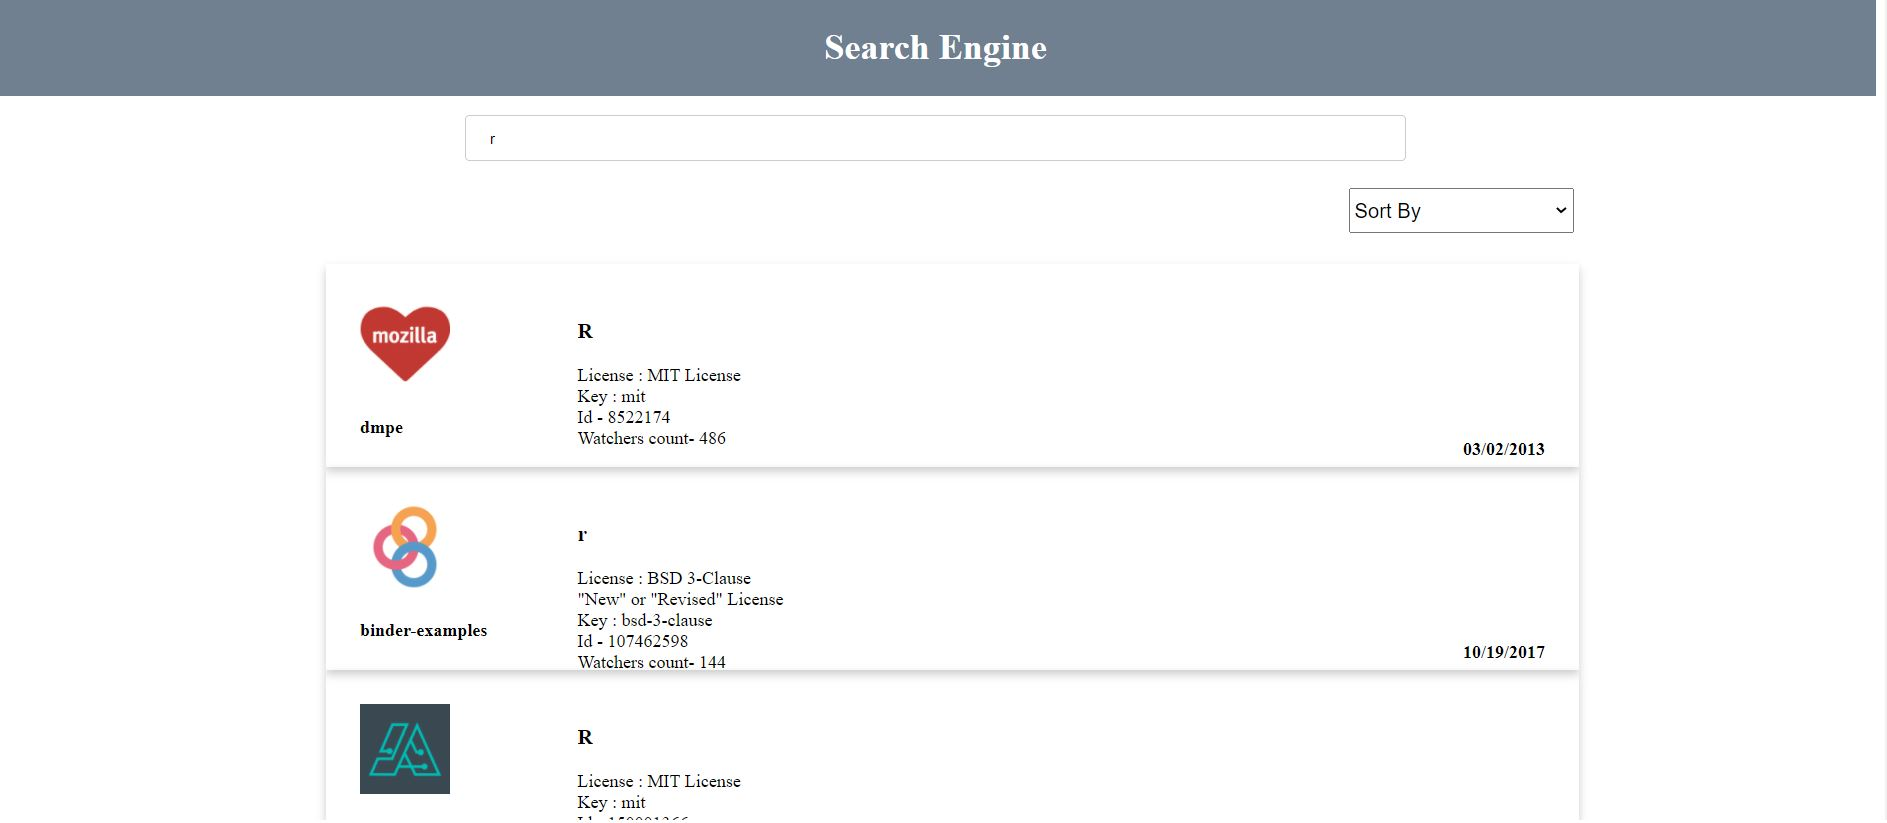
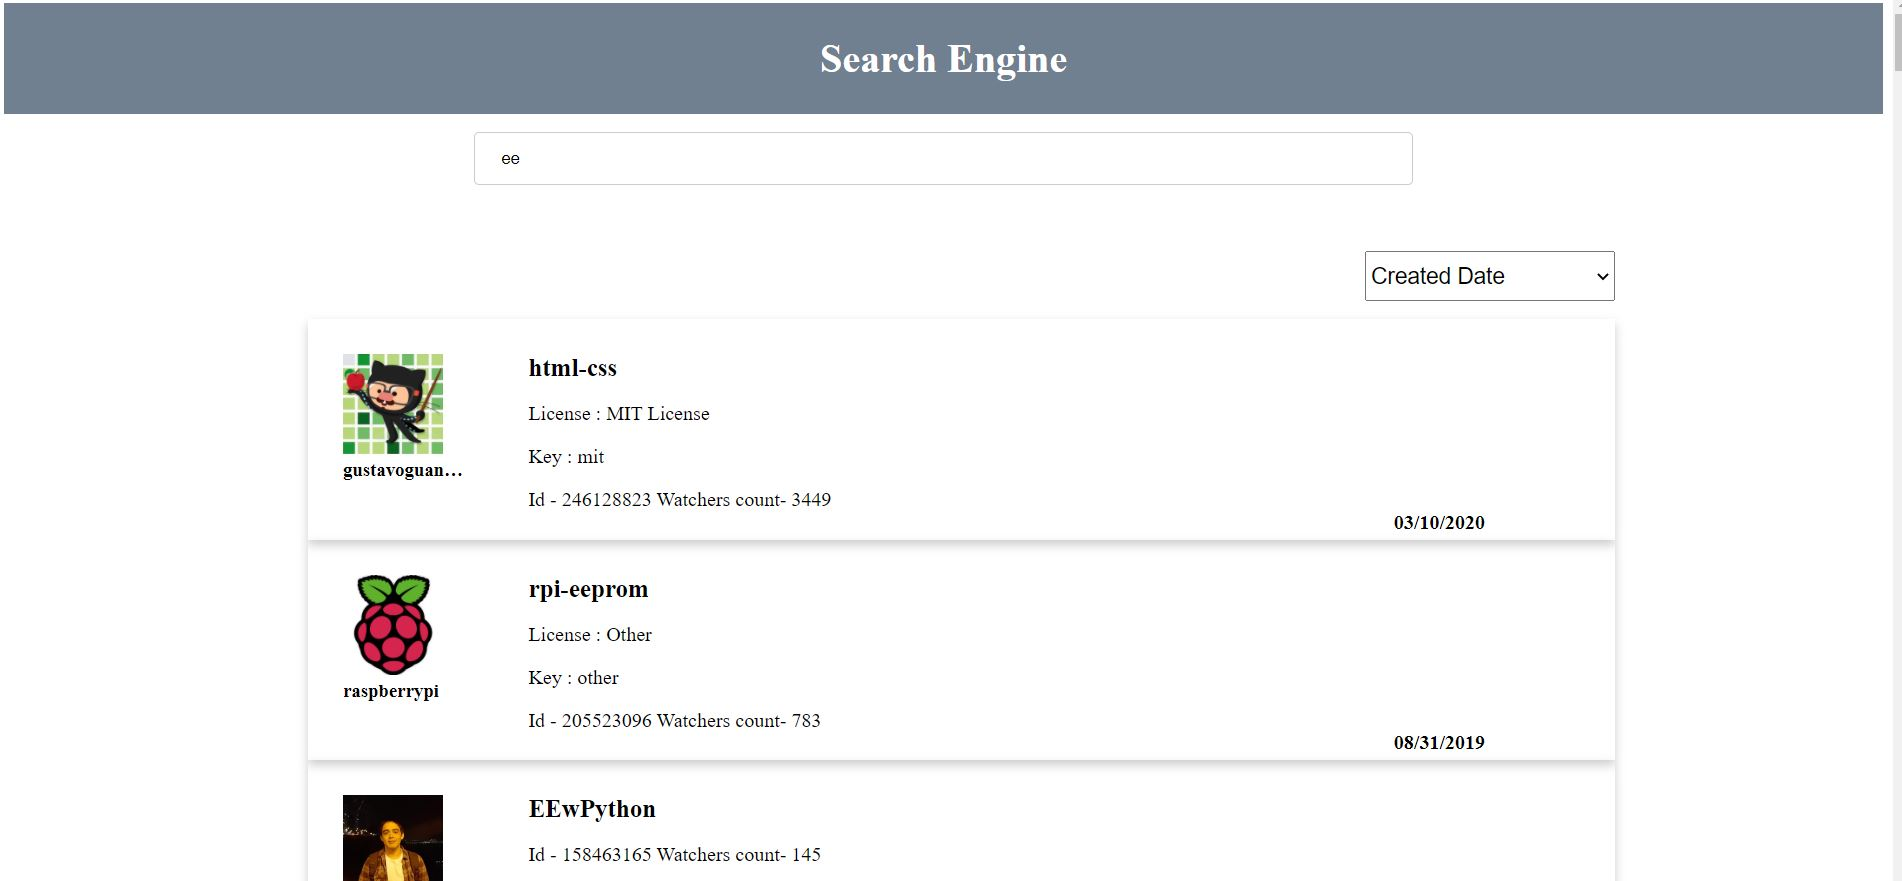
change fot git

diff --git a/src/app/searchengine/search.component.html b/src/app/searchengine/search.component.html
@@ -1,53 +1,57 @@
 <header class="header">
     <h1>Search Engine</h1>
 </header>
-<section>
-    <div class="container" infiniteScroll [infiniteScrollDistance]="2" [infiniteScrollThrottle]="50"
-        (scrolled)="onScroll()">
-        <form>
+<div class="container" infiniteScroll [infiniteScrollDistance]="2" [infiniteScrollThrottle]="50"
+    (scrolled)="onScroll()">
+    <form>
 
-            <input name="Search" [formControl]="searchTerm" class="inputBox" placeholder="Search" autocomplete="off"/>
-        </form>
-        <section class="sortData">
-            <div *ngIf=" searchData && searchData.length > 0" >
+        <input name="Search" [formControl]="searchTerm" class="inputBox" placeholder="Search" autocomplete="off" />
+    </form>
+
+    <div class="main">
+        <div class="sorting-div-block">
+            <div *ngIf=" searchData && searchData.length > 0">
                 <select (change)="sort($event.target.value)">
                     <option>Sort By</option>
                     <option *ngFor="let array of sortArray" value={{array.value}}>
                         {{array.id}}</option>
                 </select>
             </div>
-        </section>
-        <div class="main">
+        </div>
+        <div>
             <div *ngFor="let obj of searchData">
-                 <div class="card" (click)="redirectToRepos(obj.html_url)">
-                    <div class ="row">
+                <div class="card" (click)="redirectToRepos(obj.html_url)">
+                    <div class="row">
                         <div class="name-col">
-                    <img src={{obj.owner.avatar_url}} alt="Avatar" class="avatarImage" >
-                    <div class="container">
-                      <h4><b>{{obj.owner.login}}</b></h4> 
-                    </div></div>
-                    <div class="watch-col">
-                        <h3>{{obj.name}}</h3>
-                        <div *ngIf="(obj.license | json) != 'null'">License : {{obj.license.name}}</div>
-                        <div *ngIf="(obj.license | json) != 'null'">Key : {{obj.license.key}}</div>
-                        <div *ngIf="(obj.id | json) != 'null'"> Id - {{obj.id}}</div>
-                        <div *ngIf="(obj.watchers | json) != 'null'"> Watchers count- {{obj.watchers}}</div>
+                            <img src={{obj.owner.avatar_url}} alt="Avatar" class="avatarImage">
+                            <div class="login-name">{{obj.owner.login}}
+                            </div>
+                        </div>
+                        <div class="watch-col">
+                            <div class="repo-name text" maxlength="20">{{obj.name}}</div>
+                            <p>
+                                <span *ngIf="(obj.license | json) != 'null'">
+                                    License : {{obj.license.name}}
+                                </span>
+
+                            </p>
+                            <p>
+                                <span *ngIf="(obj.license | json) != 'null'"> Key : {{obj.license.key}}</span>
+                            </p>
+                            <p>
+                                <span *ngIf="(obj.id | json) != 'null'">Id - {{obj.id}} </span>
+                                <span *ngIf="(obj.watchers | json) != 'null'">Watchers count- {{obj.watchers}} </span>
+                            </p>
+                        </div>
+                        <div class="date-col">
+                            <h4> {{obj.created_at}} </h4>
+                        </div>
                     </div>
-                    <div class="watch-col">
-                       
-                    </div>
-                    <div class="id-col">
-                       
-                     </div>
-                     <div class="date-col">
-                        <h4> {{obj.created_at}} </h4>
-                     </div>
-                    </div>
-                  </div>
+                </div>
             </div>
         </div>
-
-
-
     </div>
-</section>
+
+
+
+</div>

diff --git a/src/app/searchengine/search.component.css b/src/app/searchengine/search.component.css
@@ -37,14 +37,13 @@ body {
   }
   span {
       text-align:center;
-      margin:10px;
   }
   .avatarImage{
       width:80px;
       height:80px;
   }
   .main{
-     margin:5%;
+     margin:3%;
   }
 
   .flex-container {
@@ -82,11 +81,11 @@ body {
       height:50px;
   }
   .name-col{
-    width:200px;
+    width:15%;
     height:50px;
 }
 .watch-col{
-    width:200px;
+    width:70%;
     height:50px;
     text-overflow: ellipsis; 
 }
@@ -121,6 +120,40 @@ select {
 }
 
 .date-col{
- margin-left:200px;
- margin-top: 104px;
+text-align: right; margin-top: 104px;
+}
+
+.repo-name {
+font-weight: bold;
+font-size:  20px;
+}
+
+.text {
+    display: block;
+    width: 200px;
+    overflow: hidden;
+    white-space: nowrap;
+    text-overflow: ellipsis;
+  
+}
+
+.login-name{
+  display: block;
+  width: 100px;
+  overflow: hidden;
+  white-space: nowrap;
+  text-overflow: ellipsis;
+  font-weight: bold;
+  font-size:  15px;
+}
+.repo-name:hover{
+  overflow: visible; 
+  white-space: normal;
+  height:auto; 
+}
+.sorting-div-block{
+  display:flex;
+  flex-direction: row-reverse;
+  margin-bottom: 1%;
+  margin-right: 12%;
 }

diff --git a/src/app/searchengine/search.component.ts b/src/app/searchengine/search.component.ts
@@ -22,7 +22,6 @@ export class SearchComponent implements OnInit {
     ngOnInit() {
         this.page = 1;
         this.sortArray = [{ id: 'Id', value: 'id' },
-        { id: 'Name', value: 'name' },
         { id: 'Watch', value: 'watchers' },
         {
             id: 'Created Date', value: 'created_at'
@@ -73,10 +72,11 @@ export class SearchComponent implements OnInit {
 
     public sortByDueDate(): void {
         this.searchData.sort((a, b) => {
-            return a.created_at < b.created_at ? -1 :
-                (a.created_at > b.created_at ? 1 : 0);
+               const aValue = (a.created_at) ? Number(new Date(a.created_at)) : Number(new Date(0));
+               const bValue = (b.created_at) ? Number(new Date(b.created_at)) : Number(new Date(0));
+               return bValue - aValue;
         });
-    }
+        }
 
     sort(key) {
         this.sortingKey = key;
